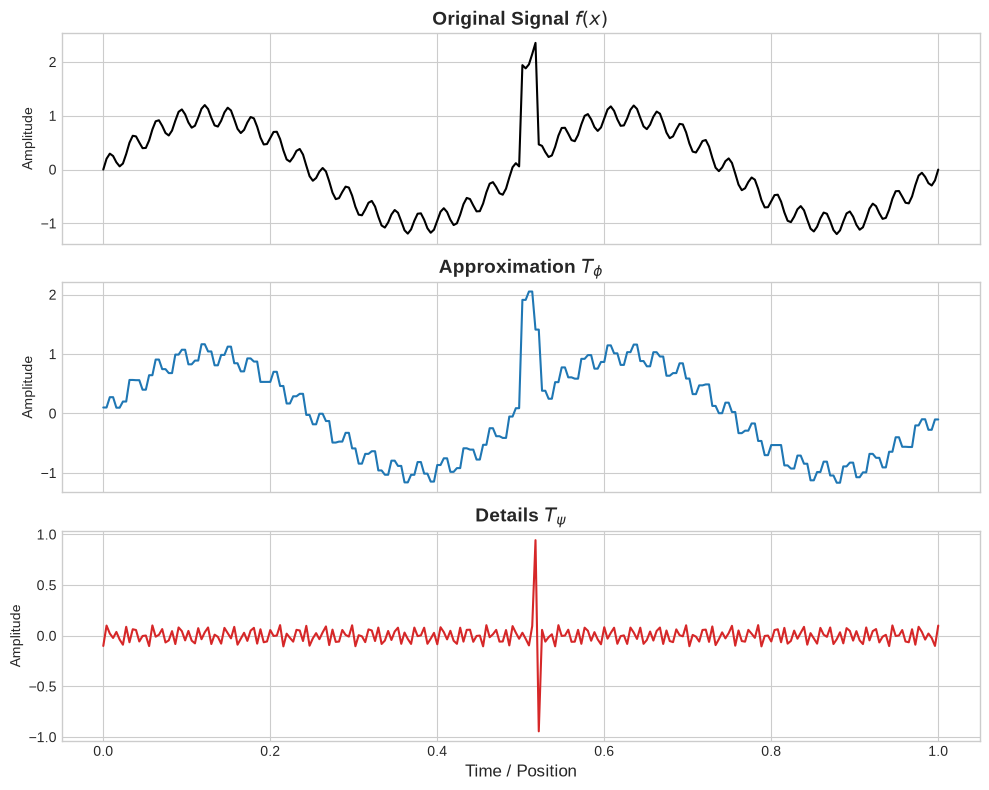
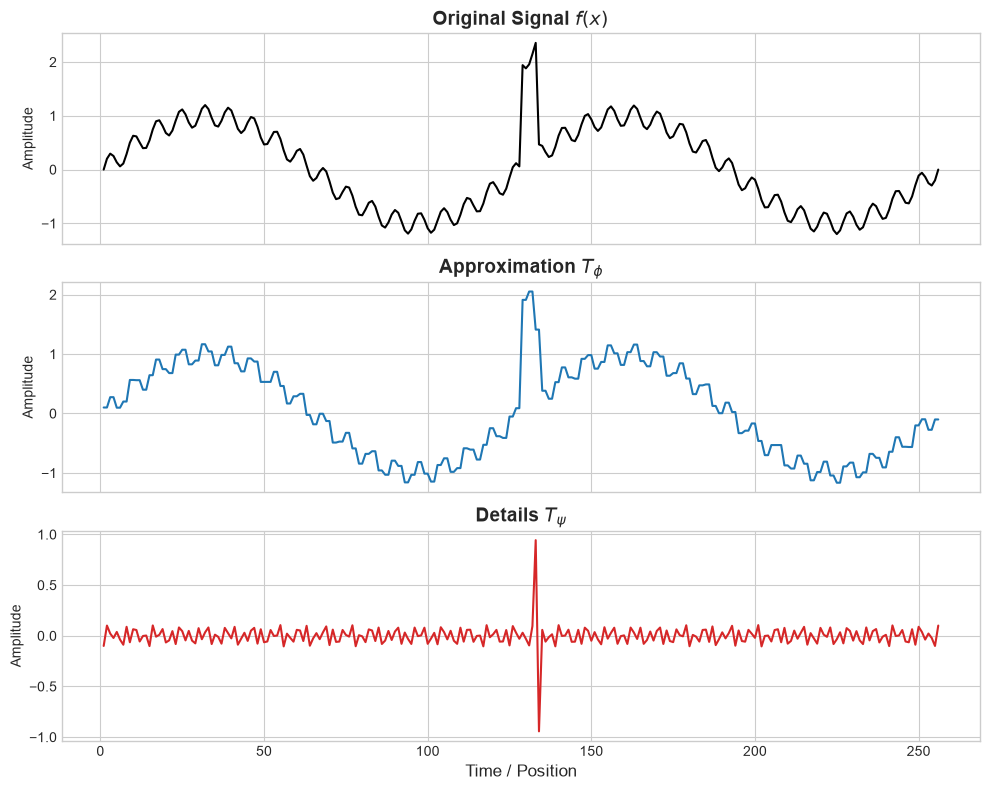
aliasing

diff --git a/aliasing.py b/aliasing.py
@@ -1,29 +1,45 @@
+import cv2
 import numpy as np
 import matplotlib.pyplot as plt
-from scipy.ndimage import gaussian_filter
 
-image = np.zeros((100, 100))
-image[:, ::2] = 1.0  
+image_bgr = cv2.imread('images/square_pattern.jpg')
 
-aliased_image = image[::2, ::2]
+if image_bgr is None:
+    print("Fehler: Bild nicht gefunden. Bitte Pfad überprüfen!")
+    exit()
 
-smoothed_image = gaussian_filter(image, sigma=1.0)
+image_rgb = cv2.cvtColor(image_bgr, cv2.COLOR_BGR2RGB)
 
-decimated_image = smoothed_image[::2, ::2]
+h, w = image_rgb.shape[:2]
+mitte_y, mitte_x = h // 2, w // 2
+
+offset = 1000
+image_crop = image_rgb[mitte_y - offset : mitte_y + offset, mitte_x - offset : mitte_x + offset]
+
+r = 25
+
+# Naive downsampling
+aliased_image = image_crop[::r, ::r]
+
+# Decimation with Gaussian Kernel
+sigma = r / 2.0
+ksize = int(2 * round(3 * sigma) + 1) 
+smoothed_image = cv2.GaussianBlur(image_crop, (ksize, ksize), sigmaX=sigma)
+decimated_image = smoothed_image[::r, ::r] # Take every r-th pixel
+
+# -- Visualize --
 
 fig, axes = plt.subplots(1, 3, figsize=(15, 5))
 
-axes[0].imshow(image, cmap='gray', interpolation='nearest')
-axes[0].set_title("Original (100x100)\n")
+axes[0].imshow(image_crop, interpolation='nearest')
+axes[0].set_title("Original \n Square Pattern")
 
-axes[1].imshow(aliased_image, cmap='gray', interpolation='nearest')
-axes[1].set_title("Naive Downsampling (50x50)\nALIASING")
+axes[1].imshow(aliased_image, interpolation='nearest')
+axes[1].set_title(f"Naive Downsampling (r={r})\nALIASING")
 
-axes[2].imshow(decimated_image, cmap='gray', interpolation='nearest')
-axes[2].set_title("Proper Decimation (50x50)\n ANTI-ALIASING")
+axes[2].imshow(decimated_image, interpolation='nearest')
+axes[2].set_title(f"Real Decimation (r={r})\nANTI-ALIASING")
 
 plt.tight_layout()
-
 plt.savefig("images/aliasing.png", format="png", bbox_inches="tight")
-
 plt.show()

diff --git a/dwt.py b/dwt.py
@@ -26,15 +26,17 @@ details = pywt.idwt(None, cD, wavelet)[:len(t)]
 plt.style.use('seaborn-v0_8-whitegrid')
 fig, (ax1, ax2, ax3) = plt.subplots(3, 1, figsize=(10, 8), sharex=True)
 
-ax1.plot(t, original_signal, color='black', linewidth=1.5)
+n = np.arange(1, N + 1)
+
+ax1.plot(n, original_signal, color='black', linewidth=1.5)
 ax1.set_title(r"Original Signal $f(x)$", fontsize=14, fontweight='bold')
 ax1.set_ylabel("Amplitude")
 
-ax2.plot(t, approximation, color='#1f77b4', linewidth=1.5)
+ax2.plot(n, approximation, color='#1f77b4', linewidth=1.5)
 ax2.set_title(r"Approximation $T_{\phi}$", fontsize=14, fontweight='bold')
 ax2.set_ylabel("Amplitude")
 
-ax3.plot(t, details, color='#d62728', linewidth=1.5)
+ax3.plot(n, details, color='#d62728', linewidth=1.5)
 ax3.set_title(r"Details $T_{\psi}$", fontsize=14, fontweight='bold')
 ax3.set_ylabel("Amplitude")
 ax3.set_xlabel("Time / Position", fontsize=12)

diff --git a/gaussian_pyramid.py b/gaussian_pyramid.py
@@ -28,5 +28,6 @@ comparison = np.hstack((image, decimated_upscaled_1, decimated_upscaled_2, decim
 
 cv2.namedWindow("Original vs. Starke Decimation", cv2.WINDOW_NORMAL)
 cv2.imshow("Original vs. Starke Decimation", comparison)
+cv2.imwrite("images/decimation.png", comparison)
 cv2.waitKey(0)
 cv2.destroyAllWindows()